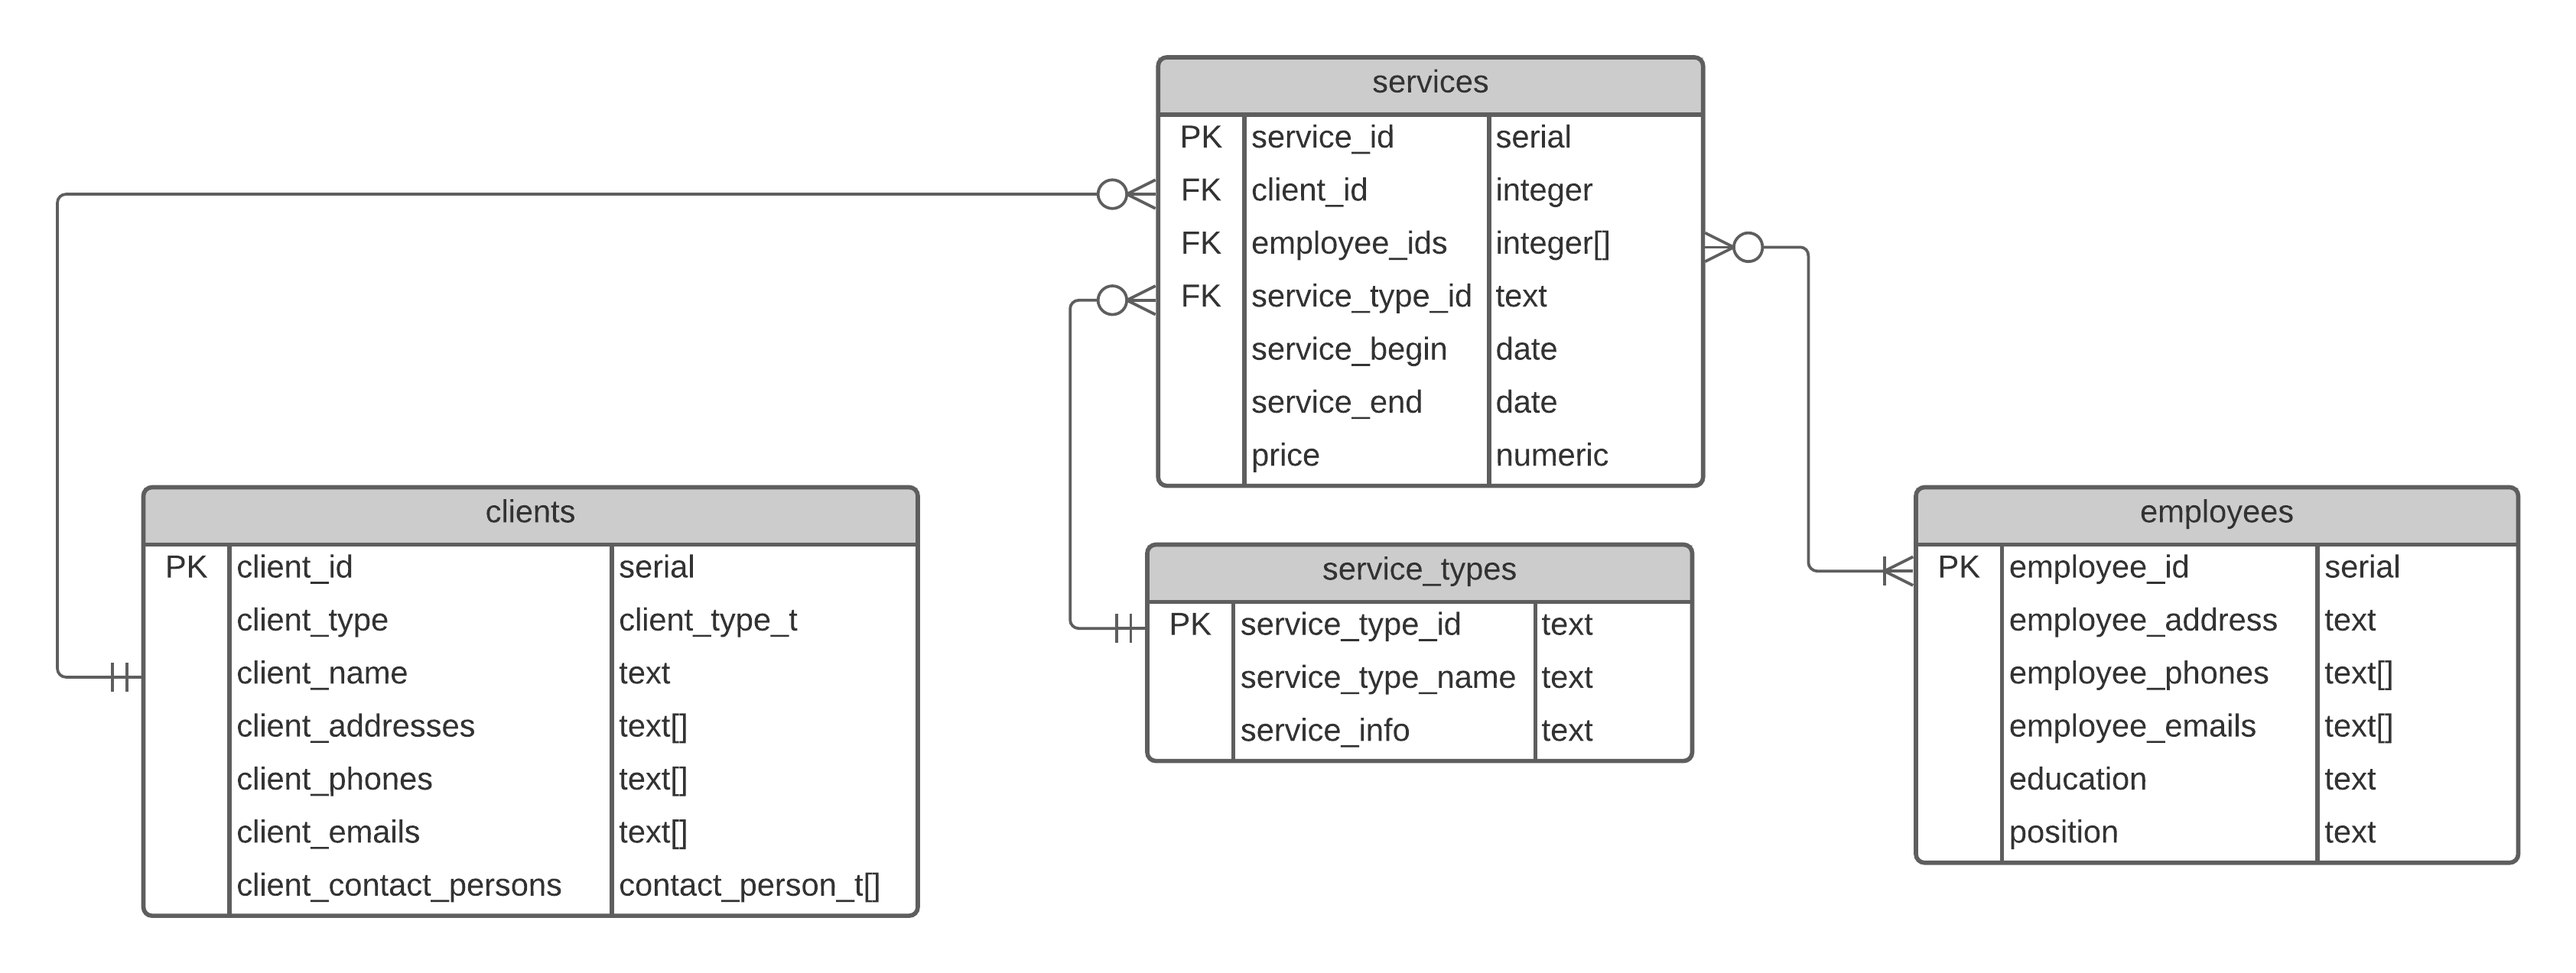
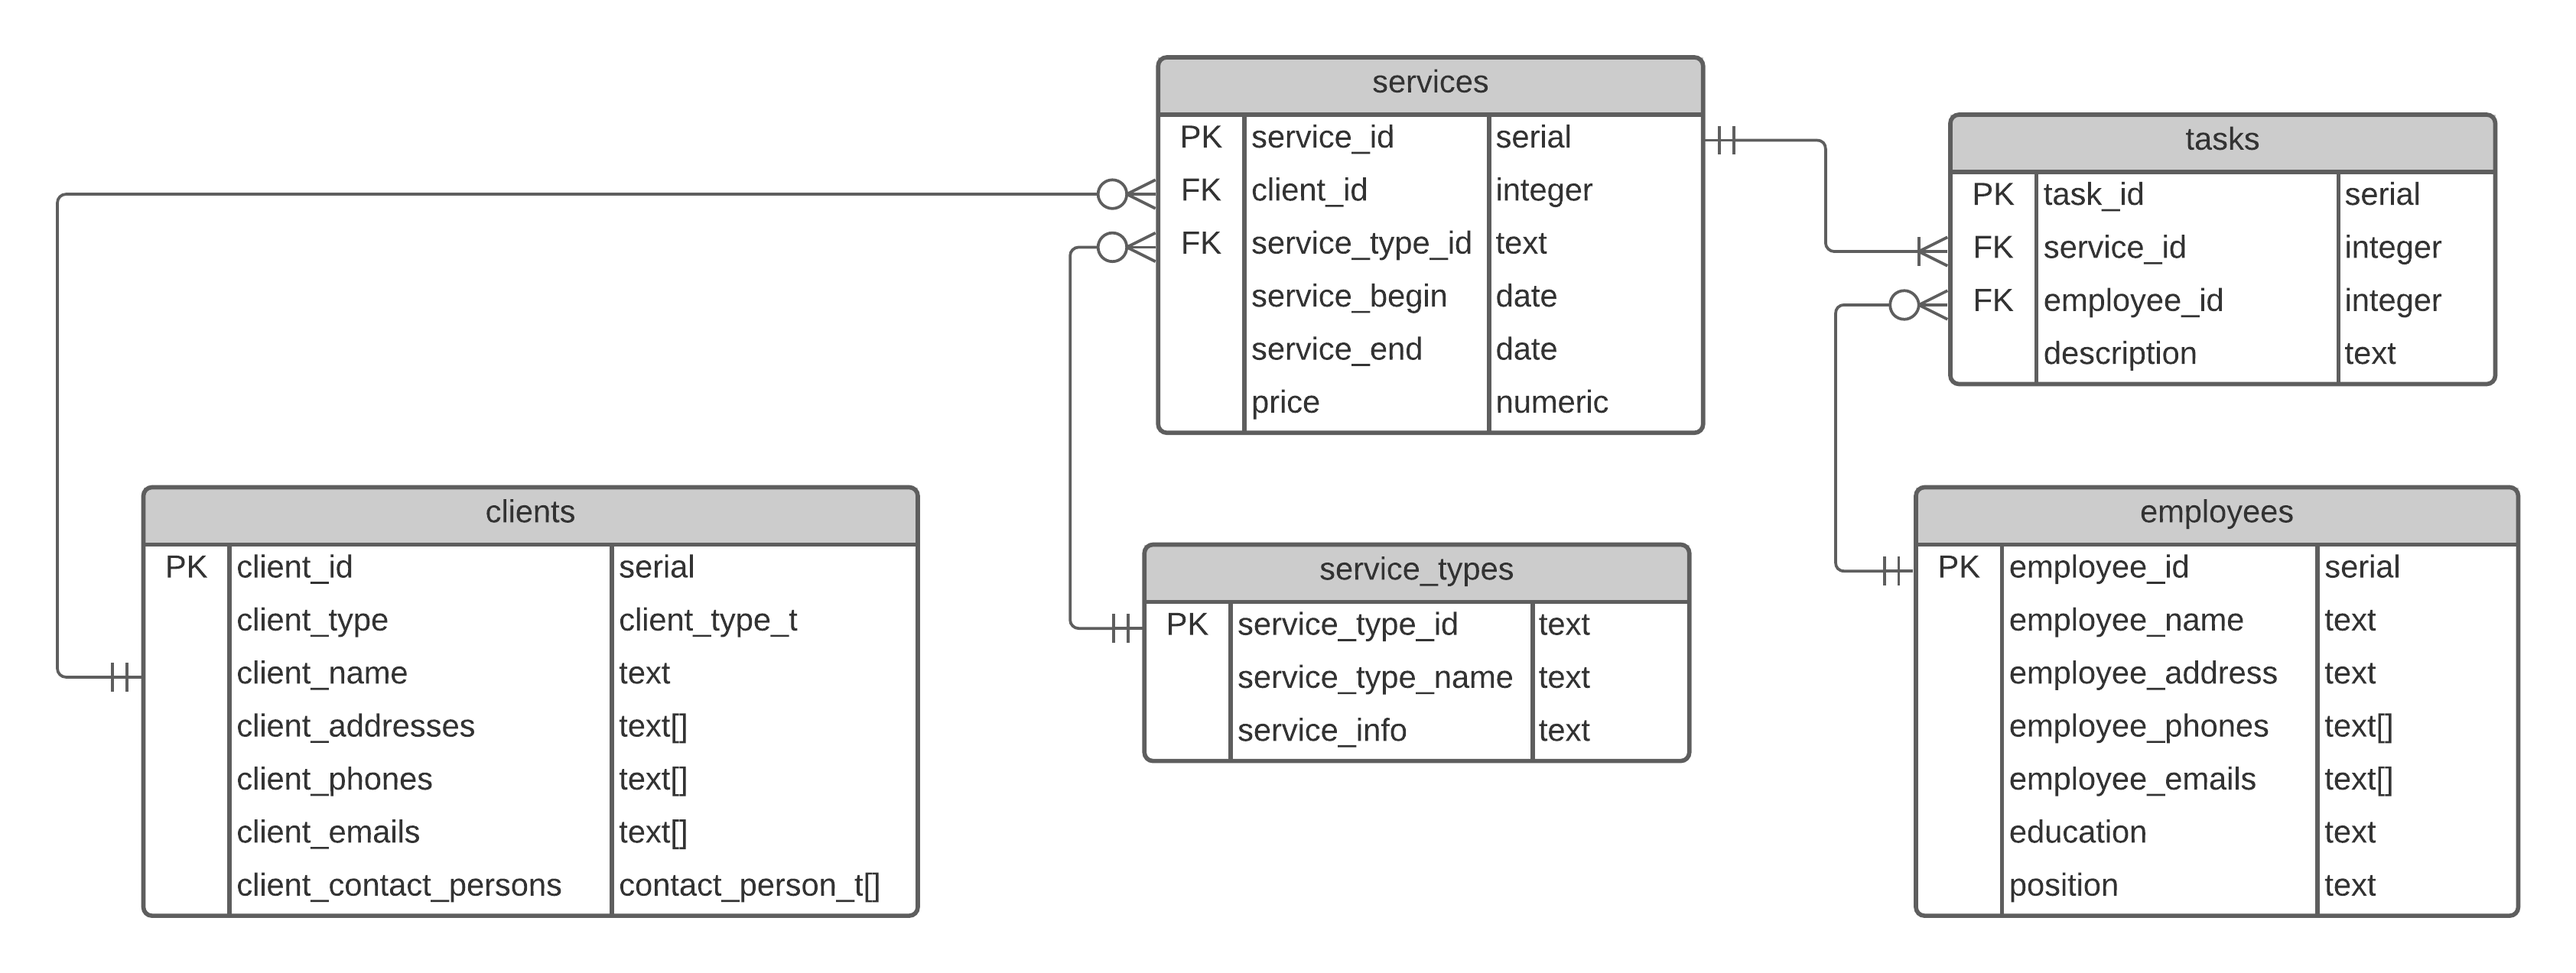
fixed schemes, contents of pages, use cases

diff --git a/README.md b/README.md
@@ -6,7 +6,7 @@
 ## Схема БД
 ![Схема БД](db_scheme.png)
 
-contact_person_t - составной тип с полями name и phone.
+contact_person_t - составной тип с полями cp_name и cp_phone.
 
 client_type_t - перечислимый тип с возможными значениями 'person' и 'organization'.
 
@@ -23,9 +23,9 @@ service_type_id - поле текстового типа, потому что д
 
 На **Странице клиента**/**Странице служащего** будут отображаться все поля таблицы clients/employees, а также список услуг, оказанных этому клиенту/в которых был задействован этот сотрудник, аналогичный списку на **Странице услуг**.
 
-На **Странице услуг** в списке услуг будут отображаться код типа услуги, клиент, даты начала и конца оказания услуги.
+На **Странице услуг** в списке услуг будут отображаться код типа услуги, имя клиента, даты начала и конца оказания услуги.
 
-На  **Странице услуги** будут отображаться все поля таблицы services, а также имена клиента, служащих и типа услуги, соответствующие внешним ключам. 
+На  **Странице услуги** будут отображаться все поля таблицы services, а также имена клиента и типа услуги, соответствующие внешним ключам. Также будет отображаться список работников, задействованных в оказании этой услуги: для каждого работника будет указан идентификатор, имя и описание того, что он делал (из таблицы tasks).
 
 На **Странице типов услуг** в списке типов услуг будут отображаться код услуги и её название.
 На **Странице типа услуг** помимо этого будет дополнительная информация об услуге (из поля service_info).
@@ -40,10 +40,12 @@ service_type_id - поле текстового типа, потому что д
   * Просмотр подробной информации о клиенте (служащем, etc.):
     * Найти в списке клиентов на **Странице клиентов** (можно воспользоваться поиском, как описано в п.1) интересующего клиента и нажать на него (или кнопку рядом с ним, или ещё как-то, конкретный способ будет определён позже) → **Страница клиента** с подробной информацией о нём.
     * На **Странице клиента** и **Странице служащего** (но не **Странице услуги** и **Странице типа услуги**) также отображается список всех услуг, оказанных этому клиенту / в оказании которых принимал участие этот служащий. Этот список ведёт себя также, как список на **Странице услуг**: возможен поиск по нему и переход на **Страницу услуги** выбранной услуги, но он отображает только те услуги, которые были оказаны этому клиенту/в оказании которых принимал участие этот служащий.
+    * На **Странице услуги** также отображается список задействованных служащих, с возможностью перехода на **Страницу служащего**.
   * Изменение информации о клиенте (служащем, etc.):
     * Попасть на **Страницу клиента** (как описано в подпункте "Просмотр подробной информации..."), нажать *Редактировать* → **Страница редактирования клиента**, изменить нужные поля и нажать *Сохранить* → (в случае успешного сохранения изменений) **Страница клиента**, на которой отображена изменённая информация.
     * В случае неуспеха: ... нажать *Сохранить* → **Страница редактирования клиента** с отображением возникших ошибок.
-    * На **Странице редактирования клиента** также можно нажать *Отменить* → **Страница клиента**, на которой отображена старая информация, до последнего успешного сохранения изменений.
+    * На **Странице редактирования клиента** (служащего, etc.) также можно нажать *Отменить* → **Страница клиента** (служащего, etc.), на которой отображена старая информация, до последнего успешного сохранения изменений.
+    * На **Странице редактирования услуги** (только на ней) можно изменять список зедействованных служащих и описание их задач в рамках оказания этой услуги.
   * Удаление клиента (служащего, etc.) из базы данных:
     * Попасть на **Страницу клиента** (как описано в подпункте "Просмотр подробной информации..."), нажать *Удалить* → подтвердить удаление → **Главная страница** в случае успешного удаления.
     * В случае неуспеха: ... нажать *Удалить* → подтвердить удаление → сообщение об ошибке.
